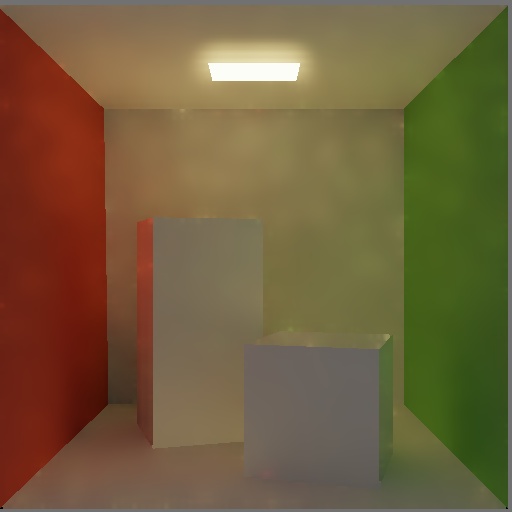
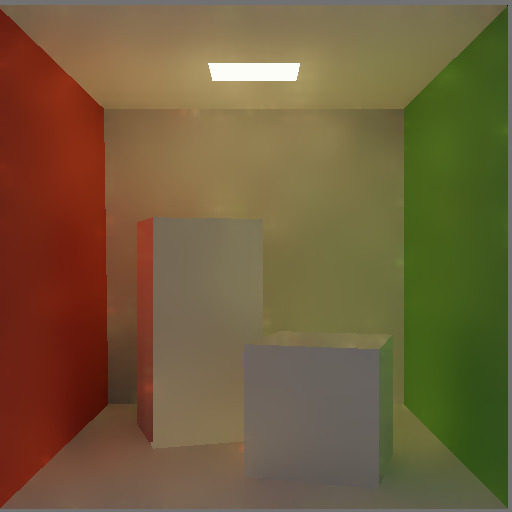
Example 41: GI grid default 4 -> 6, which is §8.1's answer
camera-reuse.md measured the reuse radius as a grid-density ladder and found it
worth about 2x. Taking it: 473 ms to 220 ms on Cornell, with RMSE improving from
0.0402 to 0.0374.

Verified on the axes that matter rather than on RMSE, because RMSE is exactly
what would have chosen wrong here -- it keeps improving out to scale 16, which is
13x faster and visibly wrong in the bounce:

  finding 21's two silhouette crops   unchanged at 4 vs 6
  bounce term at 4x exposure          slightly softer; scale 8's has coarsened
  Cornell composite                   max 75/255 on 1.4% of pixels
  daylight composite                  max 94/255, mean 1.00
  bunny bounce at 4x                  max 105/255, mean 2.21

and all of that movement is toward the reference, not away: 0.0374 against
0.0402. The silhouettes do not move because they come from the per-pixel
G-buffer, and a coarser grid gives the joint-bilateral upsample MORE to blur --
the opposite of finding 21's failure, which came from giving it less.

The two directions fail differently and the comment on `scale` now says so.
Finer is finding 21 (stepped silhouettes). Coarser is finding 4 (correlated
low-frequency blotching in the bounce, past about scale 8). 6 is where they meet,
which makes it a measured point rather than a knob with a range.

Renders regenerated: 3.0e5 cameras and 2.1e7 texels per sweep against 6.7e5 and
4.6e7, 220 ms, and 02 reproduces bit-exactly. One-bounce RMSE is unchanged at
[…]

Changed region(s): [[0.375, 0.0625, 0.625, 0.1562], [0.2812, 0.75, 0.3125, 0.7812]]

diff --git a/examples/41_multibounce/solver.hpp b/examples/41_multibounce/solver.hpp
@@ -55,13 +55,26 @@ struct SolveConfig {
     uint32_t bounces = 3;          // camera levels; 1 == direct only
     // GI grid = framebuffer / scale.
     //
-    // 4, and finding 21 is the record of trying to make it finer and putting it
-    // back. A finer grid does resolve the crease it was supposed to -- and it
-    // makes SILHOUETTES worse, because scale 4's softness was the only thing
-    // hiding the upsample's per-block structure along a diagonal edge. Trading a
-    // soft crease for a stepped silhouette is a bad trade, and it is one that no
-    // aggregate metric in this file reports.
-    uint32_t scale   = 4;
+    // 6, and the two directions fail differently. FINER is finding 21: it does
+    // resolve the crease it was supposed to, and it makes SILHOUETTES worse,
+    // because the coarse grid's softness was the only thing hiding the
+    // upsample's per-block structure along a diagonal edge. COARSER is §8.1's
+    // reuse radius, measured in camera-reuse.md: the silhouettes do not move at
+    // all -- they come from the per-pixel G-buffer, and a coarser grid gives the
+    // joint-bilateral upsample MORE to blur, not less -- but past about 8 the
+    // bounce term degrades into the correlated low-frequency blotching of
+    // finding 4.
+    //
+    // 6 is where those two meet. 2.2x the speed of 4 (473 ms to 215 ms on
+    // Cornell) with a BETTER RMSE, 0.0374 against 0.0402, and a bounce term that
+    // is only slightly softer where 8's has visibly coarsened. Nothing in the
+    // ladder past 6 is safe and nothing before it is faster, so this is not a
+    // knob with a range -- it is a measured point.
+    //
+    // Note that no aggregate in this repository could have chosen it: RMSE and
+    // roughness both keep improving out to scale 16, which is 13x faster and
+    // visibly wrong in the bounce. See camera-reuse.md §3.
+    uint32_t scale   = 6;
     uint32_t budget  = 4096;       // level-1 cameras per frame
 
     // The resolution ladder of section 6.2 / 4.1: near cameras get the

diff --git a/examples/41_multibounce/main.cpp b/examples/41_multibounce/main.cpp
@@ -89,7 +89,7 @@
 //   MBG_JITTER=1            rotate each receiver's tangent frame (decorrelate)
 //   MBG_FILTER=2            a-trous denoise iterations over the GI grid
 //   MBG_FILTER_R=2          taps per side for that filter
-//   MBG_SCALE=4             GI grid = framebuffer / scale; 1 == one camera/pixel
+//   MBG_SCALE=6             GI grid = framebuffer / scale; 1 == one camera/pixel
 //   MBG_BUDGET=4096         level-1 cameras per frame
 //   MBG_RES=16              level-1 target edge; MBG_RES2/3 for deeper levels
 //   MBG_BLOCK=8             spawn tile edge; 1 == a child per texel

diff --git a/examples/41_multibounce/renders/README.md b/examples/41_multibounce/renders/README.md
@@ -2,28 +2,30 @@
 
 All at the reference camera (`MBG_GTCAM=1`, 512×512, pixel-aligned against the
 two path-traced PNGs one directory up), default configuration unless noted:
-3 camera levels (the cap), GI grid 128×128, targets 16/8/8, the single-sample
+3 camera levels (the cap), GI grid 86×86, targets 16/8/8, the single-sample
 path estimator at 20 paths with roulette at 0.15, analytic direct term with an
 8×8 light view per pixel, jitter + 2 a-trous iterations, Reinhard.
 
-One complete sweep is **6.7e5 cameras / 4.6e7 texels**, split into 4 chunks. On
-llvmpipe (software GL, 4 CPU threads, shared container) that took **14 s**; that
-number is a property of this machine and not of the method, and the counts beside
-it are what to scale with.
+One complete sweep is **3.0e5 cameras / 2.1e7 texels**, split into 2 chunks, and
+takes **220 ms** on an RTX 3060 Laptop (driver 610.57.04).
 
 Those two are what the schedule ASKS for. What the sweep actually does, from
-`MBG_COUNT=1`, is **5.34e5 live cameras** (a fifth of the slots are background
-pixels or escaped paths, which write their zeros and return), **3.73e7 texels**,
-and **9.92e8 triangle fetches** — 26.6 of Cornell's 32 triangles per texel, the
+`MBG_COUNT=1`, is **2.39e5 live cameras** (a fifth of the slots are background
+pixels or escaped paths, which write their zeros and return), **1.66e7 texels**,
+and **4.43e8 triangle fetches** — 26.6 of Cornell's 32 triangles per texel, the
 rest cut by the any-hit early-out. The sweep line also prints a
 "triangle-rasters" figure: ignore it. It is `cameras × scene.count()` computed on
 the host, it never multiplies by the texels a camera rasterizes, and on this
 scene it is low by a factor of 46. See implementation.md finding 27.
 
+The grid is 86×86 rather than 128×128 because §8.1's reuse radius was finally
+measured; `camera-reuse.md` is that measurement and the reason the default moved
+from scale 4 to 6.
+
 | File | What | Compare against |
 |---|---|---|
 | `01_direct_1bounce.png` | `MBG_BOUNCES=1 MBG_SKY=0` — direct lighting only, no free parameters at all. RMSE 0.0430 | `../CornellBoxGroundTruthDirectLighting.png` |
-| `02_gi_3bounce.png` | `MBG_SKY=0.05` — the full solve. RMSE 0.0402 | `../CornellBoxOriginalGroundTruth.png` |
+| `02_gi_3bounce.png` | `MBG_SKY=0.05` — the full solve. RMSE 0.0374 | `../CornellBoxOriginalGroundTruth.png` |
 | `03_indirect_only_3bounce_4xexposure.png` | `MBG_INDIRECT_ONLY=1 MBG_EXPOSURE=4` — the bounce term with the direct term left out, exposed 4× so it is visible on its own | nothing; it is a diagnostic |
 | `04_diff_direct_vs_reference.png` | `MBG_VIEW=11`, 4× gain. Blue = agreement, warm = error | — |
 | `05_diff_gi_vs_reference.png` | the same for the full solve. The only warm region left is the emitter panel, which is the tone-curve gap of finding 10, not transport | — |

diff --git a/examples/41_multibounce/camera-reuse.md b/examples/41_multibounce/camera-reuse.md
@@ -207,11 +207,14 @@ environment variable.**
 
 ## 5. What to build, in order
 
-1. **Change the default to `MBG_SCALE=6`.** Measured above on both axes: 2.2x
-   on the solve, RMSE 0.0374 against 0.0402, and an indirect term that is the
-   only one in the ladder still free of coarse structure. Regenerate the renders
-   and verify with the silhouette crops and the indirect-only images — not RMSE,
-   which points the wrong way here.
+1. ~~**Change the default to `MBG_SCALE=6`.**~~ **Done.** 2.2x on the solve
+   (473 ms to 220 ms), RMSE 0.0374 against 0.0402, and the only density in the
+   ladder whose bounce term is still free of coarse structure. Verified before
+   the change on the axes that matter rather than on RMSE: finding 21's two
+   silhouette crops are unchanged, the bounce term at 4x exposure is only
+   slightly softer, and the composite moves by at most 75/255 on 1.4% of pixels
+   — in the direction of the reference. 36/36 gates, and the non-integer grid
+   (512/6 = 86, and 267x150 at 1600x900) behaves.
 2. **Measure the overlap before building anything geometric.** Add a counter for
    how many of a camera's entered clusters were also entered by its grid
    neighbour. Section 4 predicts the shareable fraction from geometry; this

diff --git a/examples/41_multibounce/implementation.md b/examples/41_multibounce/implementation.md
@@ -235,13 +235,17 @@ thing to scale.
 
 ### The default configuration
 
-`MBG_BOUNCES=3`, `MBG_SCALE=4` (GI 128×128), 20 paths, targets 16/8/8, analytic
+`MBG_BOUNCES=3`, `MBG_SCALE=6` (GI 86×86), 20 paths, targets 16/8/8, analytic
 direct with an 8×8 light view per pixel, jitter + denoise on, no environment.
 
 | | RMSE | roughness vs reference | cameras/sweep |
 |---|---|---|---|
-| 1 bounce vs the direct reference | **0.0431** | 0.91× | 1.6e4 + 262k direct |
-| 3 bounces vs the full-GI reference (sky 0.05) | **0.0403** | 0.66× | 6.7e5 + 262k direct |
+| 1 bounce vs the direct reference | **0.0430** | 0.91× | 7.4e3 + 262k direct |
+| 3 bounces vs the full-GI reference (sky 0.05) | **0.0374** | 0.63× | 3.0e5 + 262k direct |
+
+The grid was 128×128 until §8.1's reuse radius was measured; see
+`camera-reuse.md` for why scale 6 and not 4, and for why no aggregate in this
+file could have chosen it.
 
 At one bounce there is no recursion and the two estimators are the same code.
 
